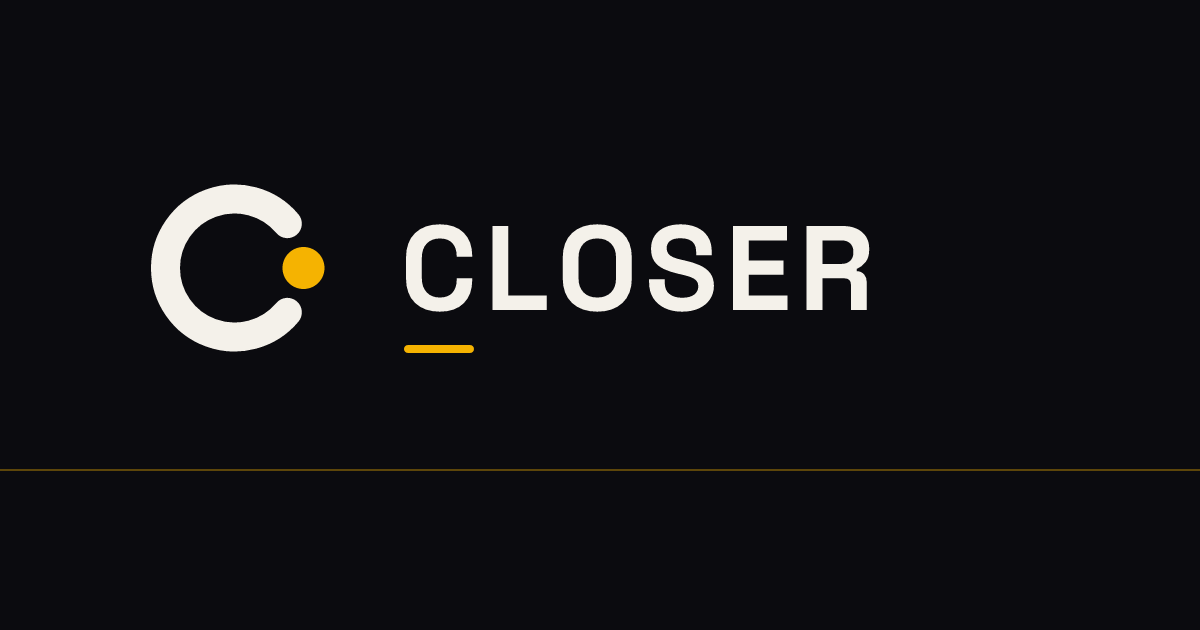
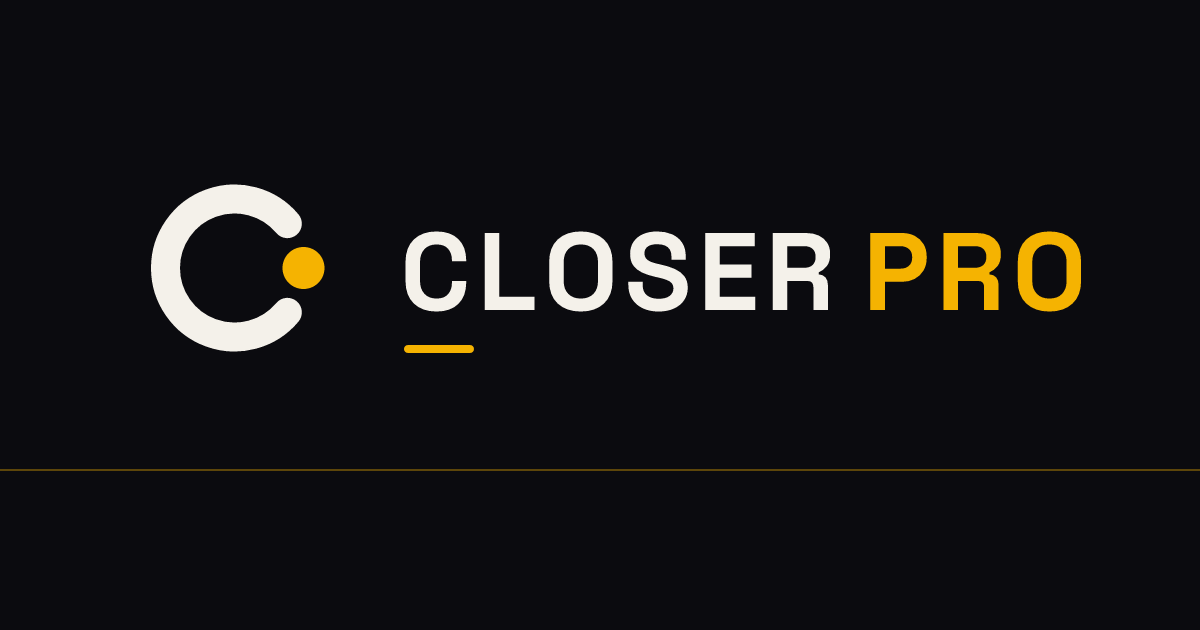
Renomme l'app en CLOSER PRO : nouveau logotype, titres, manifest et guide de marque
Claude-Session: https://claude.ai/code/session_012VEeqqJMunZjUNFXqcyDuj

Changed region(s): [[0.3392, 0.3317, 0.925, 0.5127]]

diff --git a/public/index.html b/public/index.html
@@ -3,27 +3,27 @@
 <head>
 <meta charset="utf-8">
 <meta name="viewport" content="width=device-width, initial-scale=1, viewport-fit=cover">
-<title>CLOSER</title>
+<title>CLOSER PRO</title>
 <meta name="description" content="Reste sur la ligne. Close plus. Chaque appel analysé selon la méthode Straight Line.">
 <meta name="theme-color" content="#111218">
 <meta name="apple-mobile-web-app-capable" content="yes">
 <meta name="apple-mobile-web-app-status-bar-style" content="black-translucent">
-<meta name="apple-mobile-web-app-title" content="CLOSER">
+<meta name="apple-mobile-web-app-title" content="CLOSER PRO">
 <link rel="manifest" href="/manifest.webmanifest">
 <link rel="icon" href="/brand/favicon.svg" type="image/svg+xml">
 <link rel="icon" href="/brand/favicon-32.png" sizes="32x32">
 <link rel="apple-touch-icon" href="/brand/apple-touch-icon.png">
-<meta property="og:title" content="CLOSER">
+<meta property="og:title" content="CLOSER PRO">
 <meta property="og:image" content="/brand/og.png">
 <link rel="preconnect" href="https://fonts.googleapis.com">
 <link rel="preconnect" href="https://fonts.gstatic.com" crossorigin>
 <link href="https://fonts.googleapis.com/css2?family=Inter:wght@400;500;600&family=Space+Grotesk:wght@500;600;700&display=swap" rel="stylesheet">
-<link rel="stylesheet" href="/app.css?v=5">
+<link rel="stylesheet" href="/app.css?v=6">
 </head>
 <body>
 <div class="shell">
   <aside class="side" id="side">
-    <div class="brand"><img src="/brand/mark-tight.svg" alt="" style="height:22px"><img src="/brand/wordmark.svg" alt="CLOSER" style="height:15px"></div>
+    <div class="brand"><img src="/brand/mark-tight.svg" alt="" style="height:22px"><img src="/brand/wordmark.svg" alt="CLOSER PRO" style="height:15px"></div>
     <nav class="nav" id="nav">
       <button data-v="dashboard" class="on"><svg viewBox="0 0 24 24" fill="none" stroke="currentColor" stroke-width="1.8" stroke-linecap="round" stroke-linejoin="round"><path d="M3 12h18"/><circle cx="7" cy="12" r="2.2"/><circle cx="17" cy="12" r="2.2"/></svg>Tableau de bord</button>
       <button data-v="pipeline"><svg viewBox="0 0 24 24" fill="none" stroke="currentColor" stroke-width="1.8" stroke-linecap="round" stroke-linejoin="round"><rect x="3" y="4" width="5" height="16" rx="1.5"/><rect x="10" y="4" width="5" height="11" rx="1.5"/><rect x="17" y="4" width="4" height="7" rx="1.5"/></svg>Pipeline</button>
@@ -46,7 +46,7 @@
   <div class="main">
     <div class="topbar">
       <button class="btn quiet" id="menu" aria-label="Menu"><svg viewBox="0 0 24 24" width="20" height="20" fill="none" stroke="currentColor" stroke-width="2" stroke-linecap="round"><path d="M4 7h16M4 12h16M4 17h16"/></svg></button>
-      <img src="/brand/wordmark.svg" alt="CLOSER">
+      <img src="/brand/wordmark.svg" alt="CLOSER PRO">
       <div class="status" id="status-m"><span class="dot"></span></div>
     </div>
 
@@ -156,7 +156,7 @@
       <!-- APPELS -->
       <section class="view" id="v-calls">
         <div class="head">
-          <div><h1>Appels</h1><p>CLOSER récupère tes appels GoHighLevel toutes les 10 minutes et analyse chaque appel décroché.</p></div>
+          <div><h1>Appels</h1><p>CLOSER PRO récupère tes appels GoHighLevel toutes les 10 minutes et analyse chaque appel décroché.</p></div>
           <div class="actions"><button class="btn ghost" id="btn-sync"><svg viewBox="0 0 24 24" fill="none" stroke="currentColor" stroke-width="2" stroke-linecap="round" stroke-linejoin="round"><path d="M21 12a9 9 0 0 1-15.5 6.2L3 16M3 12a9 9 0 0 1 15.5-6.2L21 8"/><path d="M21 3v5h-5M3 21v-5h5"/></svg>Synchroniser</button></div>
         </div>
         <div id="calls-callout"></div>
@@ -186,7 +186,7 @@
 
       <!-- IMPORTER -->
       <section class="view" id="v-import">
-        <div class="head"><div><h1>Importer un appel</h1><p>Pour un appel passé hors GoHighLevel, un mémo vocal ou un jeu de rôle. CLOSER le transcrit et l'analyse comme les autres.</p></div></div>
+        <div class="head"><div><h1>Importer un appel</h1><p>Pour un appel passé hors GoHighLevel, un mémo vocal ou un jeu de rôle. CLOSER PRO le transcrit et l'analyse comme les autres.</p></div></div>
         <div class="grid g-eq">
           <div class="panel">
             <div class="panel-h"><h2>Fichier audio</h2><span class="sub">mp3, m4a, wav, jusqu'à 60 Mo</span></div>
@@ -289,10 +289,10 @@
 </div></div>
 <div class="toast" id="toast"></div>
 <script src="/vendor/twilio/twilio.min.js" defer></script>
-<script src="/app.js?v=4"></script>
+<script src="/app.js?v=6"></script>
 <script src="/vendor/xlsx/xlsx.full.min.js" defer></script>
-<script src="/phone.js?v=5"></script>
-<script src="/dialer.js?v=4"></script>
-<script src="/crm.js?v=4"></script>
+<script src="/phone.js?v=6"></script>
+<script src="/dialer.js?v=6"></script>
+<script src="/crm.js?v=6"></script>
 </body>
 </html>

diff --git a/public/marque.html b/public/marque.html
@@ -3,7 +3,7 @@
 <head>
 <meta charset="utf-8">
 <meta name="viewport" content="width=device-width, initial-scale=1">
-<title>CLOSER — Guide de marque</title>
+<title>CLOSER PRO — Guide de marque</title>
 <link rel="icon" href="brand/favicon.svg" type="image/svg+xml">
 <link rel="preconnect" href="https://fonts.googleapis.com">
 <link rel="preconnect" href="https://fonts.gstatic.com" crossorigin>
@@ -58,16 +58,16 @@ footer{padding:40px 0 60px;color:var(--gris);font-size:14px}
 
 <header class="hero"><div class="wrap">
   <p class="kicker">Guide de marque · v1</p>
-  <img src="brand/logo-dark-transparent.svg" alt="CLOSER">
+  <img src="brand/logo-dark-transparent.svg" alt="CLOSER PRO">
   <p class="tagline">Reste sur la ligne.<br>Close plus.</p>
-  <p class="lead">CLOSER écoute chacun de tes appels de prospection et te dit, avec la méthode Straight Line, exactement quoi changer pour décrocher plus de rendez-vous.</p>
+  <p class="lead">CLOSER PRO écoute chacun de tes appels de prospection et te dit, avec la méthode Straight Line, exactement quoi changer pour décrocher plus de rendez-vous.</p>
 </div></header>
 
 <section><div class="wrap">
   <h2><span>01</span>L'idée</h2>
   <p class="sub">Un nom, une promesse, une attitude.</p>
   <div class="grid g3">
-    <div class="card"><h3>Le nom</h3><p>« Closer », c'est celui qui conclut. L'app ne te promet pas de parler mieux : elle te promet de <b style="color:var(--ivoire)">conclure plus</b>. Le mot fonctionne en français comme en anglais, et il sonne comme un titre que tu gagnes.</p></div>
+    <div class="card"><h3>Le nom</h3><p>« Closer », c'est celui qui conclut. « Pro », c'est le niveau qu'on vise : un outil sérieux, pour ceux qui vivent de leurs appels. CLOSER PRO ne te promet pas de parler mieux, il te promet de <b style="color:var(--ivoire)">conclure plus</b>. Le nom fonctionne en français comme en anglais.</p></div>
     <div class="card"><h3>La mission</h3><p>Transformer chaque appel, même raté, en leçon concrète. Pas de théorie : une note, une erreur, la phrase à dire la prochaine fois.</p></div>
     <div class="card"><h3>La méthode</h3><p>La Straight Line de Jordan Belfort : l'appel est une ligne droite entre l'ouverture et le close. Ton travail est de garder le contrôle et de ramener le prospect sur la ligne.</p></div>
   </div>
@@ -77,7 +77,7 @@ footer{padding:40px 0 60px;color:var(--gris);font-size:14px}
 
 <section><div class="wrap">
   <h2><span>02</span>Le logo</h2>
-  <p class="sub">Le symbole est un <b style="color:var(--ivoire)">C</b> ouvert : la conversation, la boucle des objections. Le <b style="color:var(--or)">point or</b> vient la refermer : c'est le close. Le logotype est en Space Grotesk Bold, légèrement espacé.</p>
+  <p class="sub">Le symbole est un <b style="color:var(--ivoire)">C</b> ouvert : la conversation, la boucle des objections. Le <b style="color:var(--or)">point or</b> vient la refermer : c'est le close. Le logotype est en Space Grotesk Bold, légèrement espacé, avec « PRO » dans l'or du point.</p>
   <div class="grid g2">
     <div><div class="tile" style="background:var(--noir)"><img src="brand/logo-dark.svg" alt=""></div><div class="cap">Version principale, sur fond noir</div></div>
     <div><div class="tile" style="background:var(--ivoire)"><img src="brand/logo-light.svg" alt=""></div><div class="cap">Version sur fond clair</div></div>
@@ -124,7 +124,7 @@ footer{padding:40px 0 60px;color:var(--gris);font-size:14px}
 
 <section><div class="wrap">
   <h2><span>05</span>La voix</h2>
-  <p class="sub">CLOSER parle comme un coach exigeant qui croit en toi. Il tutoie, va droit au but et donne toujours la phrase à dire.</p>
+  <p class="sub">CLOSER PRO parle comme un coach exigeant qui croit en toi. Il tutoie, va droit au but et donne toujours la phrase à dire.</p>
   <div class="grid g2">
     <div class="card"><h3>Le ton</h3><ul class="do">
       <li>Direct : « Tu as lâché le contrôle à 0:42. »</li>
@@ -177,6 +177,6 @@ footer{padding:40px 0 60px;color:var(--gris);font-size:14px}
   </div>
 </div></section>
 
-<footer><div class="wrap">CLOSER · Guide de marque v1 · Novembre 2026</div></footer>
+<footer><div class="wrap">CLOSER PRO · Guide de marque v2 · Novembre 2026</div></footer>
 </body>
 </html>

diff --git a/scripts/brand.js b/scripts/brand.js
@@ -1,4 +1,4 @@
-// Génère les assets de marque CLOSER (SVG + PNG) dans public/brand
+// Génère les assets de marque CLOSER PRO (SVG + PNG) dans public/brand
 // Usage : npm i opentype.js @expo-google-fonts/space-grotesk @resvg/resvg-js && node scripts/brand.js public/brand
 const fs = require("fs");
 const path = require("path");
@@ -31,12 +31,12 @@ function mark({ ring = C.ivoire, line = C.or, scale = 1, tx = 0, ty = 0 } = {}) 
 }
 
 // ---- Le logotype « CLOSER » en tracés (aucune police requise)
-function wordmark(size, color, tracking = 0.06) {
+function wordmark(size, color, tracking = 0.06, text = "CLOSER") {
   const font = opentype.parse(buf.buffer.slice(buf.byteOffset, buf.byteOffset + buf.byteLength)); // police fraîche : contourne un bug de cache d'opentype.js
   const scale = size / font.unitsPerEm;
   let x = 0, maxX = 0;
   const parts = [];
-  for (const ch of "CLOSER") {
+  for (const ch of text) {
     const g = font.charToGlyph(ch);
     const gp = font.getPath(ch, x, 0, size, { kerning: false, hinting: false });
     const d = gp.toPathData(2);
@@ -48,6 +48,17 @@ function wordmark(size, color, tracking = 0.06) {
     x = Math.round((x + adv + size * tracking) * 100) / 100;
   }
   return { d: parts.join(" "), width: maxX, color };
+}
+
+// « CLOSER » ivoire + « PRO » or
+function wordmarkPro(size, main) {
+  const a = wordmark(size, main, 0.06, "CLOSER");
+  const b = wordmark(size, C.or, 0.06, "PRO");
+  const gap = Math.round(size * 0.3);
+  return {
+    width: a.width + gap + b.width,
+    body: (x, y) => `<path d="${a.d}" fill="${main}" transform="translate(${x} ${y})"/><path d="${b.d}" fill="${C.or}" transform="translate(${(x + a.width + gap).toFixed(2)} ${y})"/>`,
+  };
 }
 
 function svg(w, h, body, bg) {
@@ -79,11 +90,11 @@ png("favicon-32.png", icon(120), 32);
 
 // Lockups horizontaux
 function lockup(dark) {
-  const wm = wordmark(150, dark ? C.ivoire : C.noir);
+  const wm = wordmarkPro(150, dark ? C.ivoire : C.noir);
   const markScale = 0.42, markW = 512 * markScale, gap = 34, pad = 40;
   const W = Math.ceil(pad + markW + gap + wm.width + pad), H = 300;
   const body = `${mark({ ring: dark ? C.ivoire : C.noir, scale: markScale, tx: pad, ty: (H - 512 * markScale) / 2 })}
-    <path d="${wm.d}" fill="${wm.color}" transform="translate(${pad + markW + gap} ${H / 2 + 52})"/>`;
+    ${wm.body(pad + markW + gap, H / 2 + 52)}`;
   return svg(W, H, body, dark ? C.noir : null);
 }
 write("logo-dark.svg", lockup(true));
@@ -92,17 +103,17 @@ write("logo-light.svg", lockup(false));
 png("logo-dark.png", lockup(true), 1200);
 
 // Logotype seul (pour l'en-tête de l'app)
-const wm = wordmark(100, C.ivoire);
-write("wordmark.svg", svg(Math.ceil(wm.width) + 4, 100, `<path d="${wm.d}" fill="${C.ivoire}" transform="translate(2 74)"/>`));
+const wm = wordmarkPro(100, C.ivoire);
+write("wordmark.svg", svg(Math.ceil(wm.width) + 4, 100, wm.body(2, 74)));
 
 // Image de partage (Open Graph)
 const og = (() => {
-  const w2 = wordmark(120, C.ivoire);
+  const w2 = wordmarkPro(110, C.ivoire);
   return `<svg xmlns="http://www.w3.org/2000/svg" viewBox="0 0 1200 630" width="1200" height="630">
   <rect width="1200" height="630" fill="${C.noir}"/>
   <line x1="0" y1="470" x2="1200" y2="470" stroke="${C.or}" stroke-width="2" opacity=".35"/>
   ${mark({ scale: 0.5, tx: 110, ty: 140 })}
-  <path d="${w2.d}" fill="${C.ivoire}" transform="translate(400 310)"/>
+  ${w2.body(400, 310)}
   <rect x="404" y="345" width="70" height="8" rx="4" fill="${C.or}"/>
   </svg>`;
 })();

diff --git a/public/app.js b/public/app.js
@@ -1,4 +1,4 @@
-/* CLOSER — application v2 */
+/* CLOSER PRO — application v2 */
 const ETAPES = [
   ["ouverture", "Ouverture", "Les 4 premières secondes"],
   ["tonalite", "Tonalité", ""],
@@ -176,7 +176,7 @@ function renderDashboard() {
        <p>C'est l'étape où tu perds le plus de points : ${notes[weakest[0]].toFixed(1)}/10 en moyenne sur tes ${last10.length} derniers appels.</p>
        ${last && last.summary && last.summary.priorite ? `<div class="advice"><b>Dernier conseil du coach</b><br>${esc(last.summary.priorite)}</div>` : ""}
        <div style="margin-top:18px"><button class="btn ghost" data-go="coach">Ouvrir le bilan du coach</button></div>`
-    : `<div class="k">Pour commencer</div><h3>Analyse ton premier appel</h3><p>Passe tes appels depuis GoHighLevel : CLOSER les récupère tout seul. Tu peux aussi importer un enregistrement.</p><div style="margin-top:18px"><button class="btn primary" data-go="calls">Voir mes appels</button></div>`;
+    : `<div class="k">Pour commencer</div><h3>Analyse ton premier appel</h3><p>Passe tes appels depuis GoHighLevel : CLOSER PRO les récupère tout seul. Tu peux aussi importer un enregistrement.</p><div style="margin-top:18px"><button class="btn primary" data-go="calls">Voir mes appels</button></div>`;
 
   // Graphique
   if (all.length >= 2) {
@@ -409,7 +409,7 @@ function renderSyncInfo() {
   const w = workerState || {};
   $("#sync-info").innerHTML = w.lastSyncError
     ? `<span class="c-bad">La dernière synchronisation a échoué : ${esc(w.lastSyncError)}</span>`
-    : w.lastSync ? `Dernière synchronisation ${esc(fmtFull(w.lastSync))}. CLOSER vérifie tes nouveaux appels toutes les 10 minutes.` : "CLOSER vérifie tes nouveaux appels toutes les 10 minutes.";
+    : w.lastSync ? `Dernière synchronisation ${esc(fmtFull(w.lastSync))}. CLOSER PRO vérifie tes nouveaux appels toutes les 10 minutes.` : "CLOSER PRO vérifie tes nouveaux appels toutes les 10 minutes.";
 }
 $("#btn-save").onclick = async () => {
   try {

diff --git a/public/dialer.js b/public/dialer.js
@@ -1,4 +1,4 @@
-/* CLOSER — dialer, prospects, objections */
+/* CLOSER PRO — dialer, prospects, objections */
 const OUT = {
   rdv: { label: "Rendez-vous", color: "var(--good)", key: "1" },
   rappel: { label: "À rappeler", color: "var(--mid)", key: "2" },
@@ -41,12 +41,12 @@ function renderSetup() {
   $("#dl-state").textContent = c.enabled ? `Prêt, numéro ${fmtPhone(c.callerId)}` : "Non configuré";
   if (c.enabled) { $("#dl-setup").innerHTML = ""; return; }
   $("#dl-setup").innerHTML = `<div class="callout ${c.error ? "err" : ""}"><div class="grow">
-    <b>${c.error ? "Le dialer n'a pas pu se connecter à Twilio" : "Connecte Twilio pour passer tes appels depuis CLOSER"}</b>
+    <b>${c.error ? "Le dialer n'a pas pu se connecter à Twilio" : "Connecte Twilio pour passer tes appels depuis CLOSER PRO"}</b>
     <p>${c.error ? esc(c.error) : "Tu peux déjà préparer tes listes et ta file d'appels. Pour appeler :"}</p>
     ${c.error ? "" : `<ol class="setup-steps">
       <li>Crée un compte sur twilio.com et achète un numéro français, ou vérifie ton numéro actuel comme identifiant d'appel.</li>
       <li>Dans Railway, ajoute <code>TWILIO_ACCOUNT_SID</code>, <code>TWILIO_AUTH_TOKEN</code> et <code>TWILIO_CALLER_ID</code> (ton numéro au format +33…).</li>
-      <li>C'est tout : CLOSER configure le reste au démarrage.</li></ol>`}
+      <li>C'est tout : CLOSER PRO configure le reste au démarrage.</li></ol>`}
   </div></div>`;
 }
 

diff --git a/public/phone.js b/public/phone.js
@@ -1,4 +1,4 @@
-/* CLOSER — fenêtre d'appel flottante (utilisable depuis n'importe quelle page) */
+/* CLOSER PRO — fenêtre d'appel flottante (utilisable depuis n'importe quelle page) */
 const P = { cfg: null, device: null, call: null, sid: null, lead: null, phase: "idle", t0: 0, timer: null, muted: false, pad: false, script: false, min: false, onDone: null, showCb: false };
 const P_OUT = [
   ["rdv", "Rendez-vous", "var(--good)"], ["rappel", "À rappeler", "var(--mid)"], ["pas_interesse", "Pas intéressé", "var(--bad)"],
@@ -106,7 +106,7 @@ function renderPhone() {
   if (P.phase === "setup") {
     const c = P.cfg || {};
     body = `<div class="ph-b"><p style="margin:0 0 8px"><b>${c.error ? "Twilio ne répond pas" : "Le dialer n'est pas encore connecté"}</b></p>
-      <p class="muted small" style="margin:0">${c.error ? esc(c.error) : `Ajoute dans Railway : ${(c.missing || []).map(esc).join(", ")}. CLOSER configure le reste tout seul.`}</p>
+      <p class="muted small" style="margin:0">${c.error ? esc(c.error) : `Ajoute dans Railway : ${(c.missing || []).map(esc).join(", ")}. CLOSER PRO configure le reste tout seul.`}</p>
       <div style="margin-top:12px">${l.phone ? `<a class="btn ghost" href="tel:${esc(l.phone)}">Appeler avec mon téléphone</a>` : ""}</div></div>`;
   } else if (P.phase === "connecting" || P.phase === "incall") {
     body = `<div class="ph-b">

diff --git a/public/login.html b/public/login.html
@@ -3,7 +3,7 @@
 <head>
 <meta charset="utf-8">
 <meta name="viewport" content="width=device-width, initial-scale=1, viewport-fit=cover">
-<title>Connexion · CLOSER</title>
+<title>Connexion · CLOSER PRO</title>
 <meta name="theme-color" content="#111218">
 <meta name="apple-mobile-web-app-capable" content="yes">
 <meta name="apple-mobile-web-app-status-bar-style" content="black-translucent">
@@ -18,7 +18,7 @@
 <body>
 <div class="auth">
   <div class="auth-art">
-    <div class="wm" style="display:flex;align-items:center;gap:10px"><img src="/brand/mark-tight.svg" alt="" style="height:26px"><img src="/brand/wordmark.svg" alt="CLOSER" style="height:18px"></div>
+    <div class="wm" style="display:flex;align-items:center;gap:10px"><img src="/brand/mark-tight.svg" alt="" style="height:26px"><img src="/brand/wordmark.svg" alt="CLOSER PRO" style="height:18px"></div>
     <div class="auth-line" aria-hidden="true"></div>
     <div class="copy">
       <h1>Reste sur la ligne. Close plus.</h1>

diff --git a/src/twilio.js b/src/twilio.js
@@ -38,14 +38,14 @@ function ensureSetup() {
     const cur = await getStored();
     const next = { ...cur };
     if (!next.appSid) {
-      const app = await client().applications.create({ friendlyName: "CLOSER", voiceUrl, voiceMethod: "POST" });
+      const app = await client().applications.create({ friendlyName: "CLOSER PRO", voiceUrl, voiceMethod: "POST" });
       next.appSid = app.sid;
     } else if (next.voiceUrl !== voiceUrl) {
       await client().applications(next.appSid).update({ voiceUrl, voiceMethod: "POST" });
     }
     next.voiceUrl = voiceUrl;
     if (!next.keySid || !next.keySecret) {
-      const key = await client().newKeys.create({ friendlyName: "CLOSER dialer" });
+      const key = await client().newKeys.create({ friendlyName: "CLOSER PRO dialer" });
       next.keySid = key.sid;
       next.keySecret = key.secret;
     }

diff --git a/src/analyze.js b/src/analyze.js
@@ -12,7 +12,7 @@ const ETAPES = [
   ["controle", "Contrôle de la ligne droite"],
 ];
 
-const SYSTEM = `Tu es le coach de CLOSER, un coach de vente d'élite expert de la méthode Straight Line (Straight Line Persuasion) de Jordan Belfort. Tu es exigeant, direct, concret et motivant. Tu tutoies le vendeur. Tu réponds toujours en français, uniquement avec du JSON valide.`;
+const SYSTEM = `Tu es le coach de CLOSER PRO, un coach de vente d'élite expert de la méthode Straight Line (Straight Line Persuasion) de Jordan Belfort. Tu es exigeant, direct, concret et motivant. Tu tutoies le vendeur. Tu réponds toujours en français, uniquement avec du JSON valide.`;
 
 async function claude(user, maxTokens = 6000) {
   const res = await fetch("https://api.anthropic.com/v1/messages", {

diff --git a/server.js b/server.js
@@ -1,4 +1,4 @@
-// CLOSER — ton coach de cold call Straight Line
+// CLOSER PRO — ton coach de cold call Straight Line
 const path = require("path");
 const crypto = require("crypto");
 const express = require("express");
@@ -257,7 +257,7 @@ app.use((err, req, res, next) => {
   }
   await migrate();
   await getSettings();
-  app.listen(config.port, () => console.log(`CLOSER en ligne sur le port ${config.port}`));
+  app.listen(config.port, () => console.log(`CLOSER PRO en ligne sur le port ${config.port}`));
   worker.start();
   if (tw.enabled()) tw.ensureSetup().then(() => console.log("Dialer Twilio prêt")).catch((e) => console.warn("Dialer Twilio :", e.message));
 })().catch((e) => {

diff --git a/src/dialer.js b/src/dialer.js
@@ -173,8 +173,8 @@ api.post("/leads/:id/outcome", async (req, res) => {
   if (lead.ghl_contact_id && config.ghlApiKey) {
     const when = callbackAt ? ` le ${callbackAt.toLocaleString("fr-FR", { timeZone: "Europe/Paris", dateStyle: "short", timeStyle: "short" })}` : "";
     ghlResult = await ghl.logOutcome(lead.ghl_contact_id, {
-      title: `CLOSER : ${o.label}`,
-      body: `Appel CLOSER : ${o.label}${when}.${lead.notes ? "\n\nNotes : " + lead.notes : ""}`,
+      title: `CLOSER PRO : ${o.label}`,
+      body: `Appel CLOSER PRO : ${o.label}${when}.${lead.notes ? "\n\nNotes : " + lead.notes : ""}`,
       tag: o.tag,
     });
   }

diff --git a/public/crm.js b/public/crm.js
@@ -1,4 +1,4 @@
-/* CLOSER — CRM : pipeline, fiche prospect, import Excel */
+/* CLOSER PRO — CRM : pipeline, fiche prospect, import Excel */
 const CRM = { stages: [], leads: [], list: "", q: "", more: {}, drag: null };
 const PER_COL = 60;
 const crmName = (l) => [l.first_name, l.last_name].filter(Boolean).join(" ") || l.name || "";
